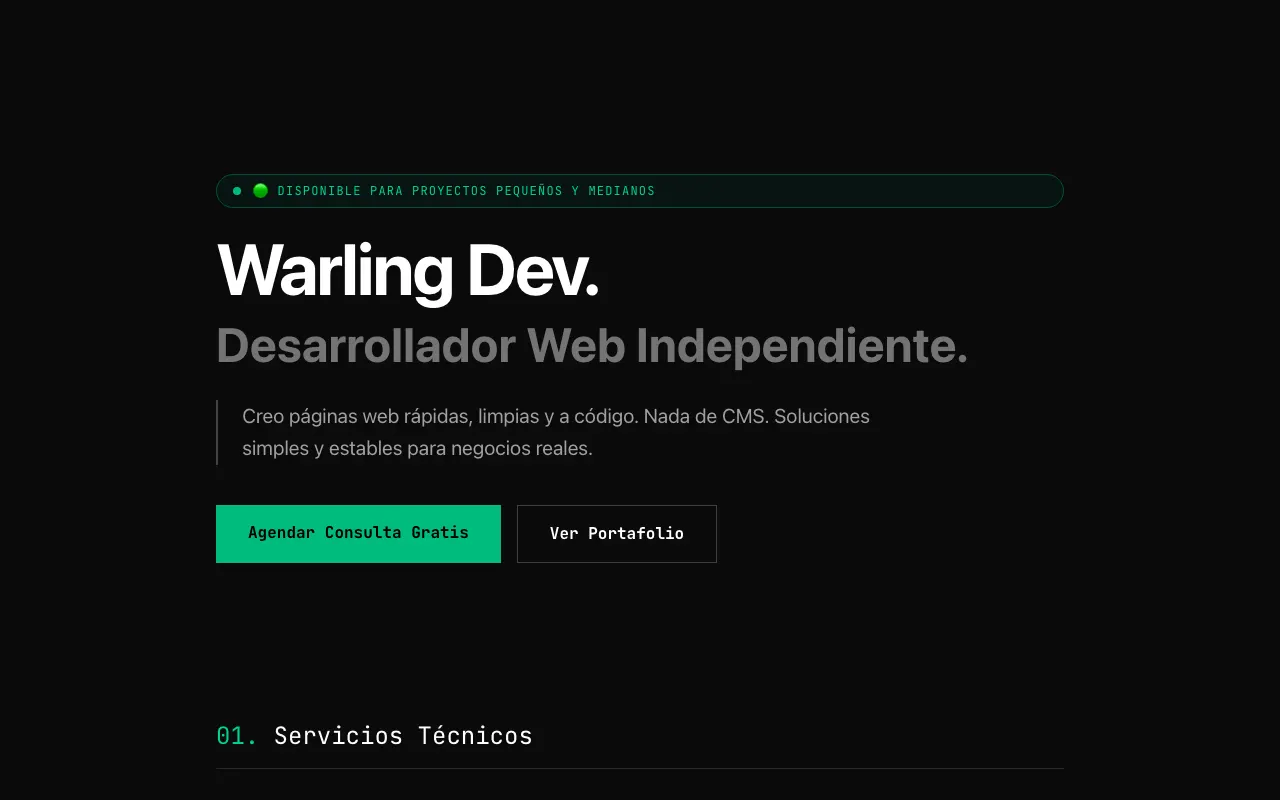
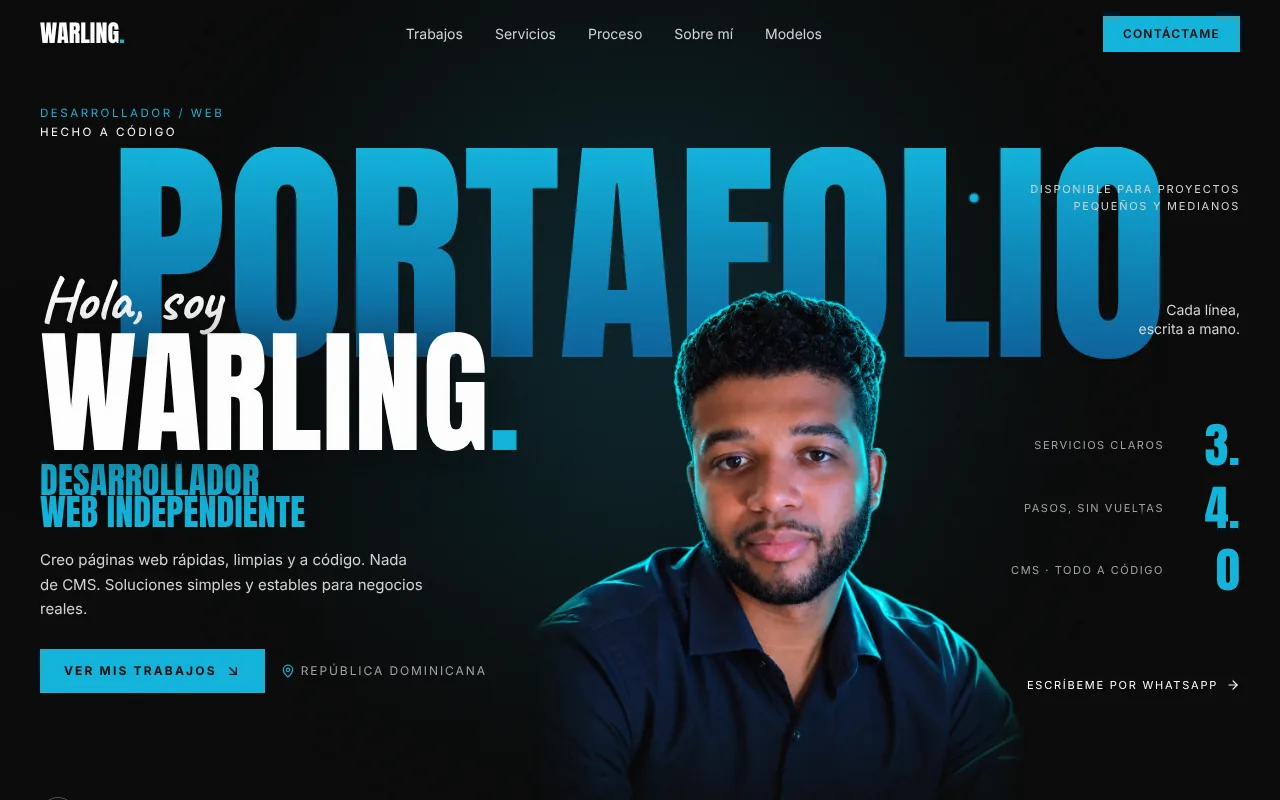
Caso Warling Dev: captura del nuevo warling.top y LinkedIn correcto
- Nueva imagen del caso con el rediseño de www.warling.top.
- La solución menciona el botón directo a WhatsApp (ya no hay agenda).
- LinkedIn del fundador: linkedin.com/in/warlinglopez-dev (entity y /ceo-warling).

Claude-Session: https://claude.ai/code/session_0129eDC2oZNneeVH5rUR3TV3

diff --git a/app/components/ProjectsSection.tsx b/app/components/ProjectsSection.tsx
@@ -174,9 +174,9 @@ export default function ProjectsSection({
       problemEn:
         "No professional presence to communicate technical services and work process to potential clients.",
       solution:
-        "Desarrollamos un sitio profesional con servicios, proceso de trabajo y un CTA claro para agendar consultas.",
+        "Desarrollamos un sitio profesional con servicios, proceso de trabajo y un botón directo a WhatsApp.",
       solutionEn:
-        "We built a professional site with services, work process and a clear CTA to book consultations.",
+        "We built a professional site with services, work process and a direct WhatsApp button.",
       result:
         "Un sitio que carga en menos de 2 segundos y explica servicios y proceso sin que él tenga que repetirlo en cada conversación.",
       resultEn:

diff --git a/app/(standalone)/ceo-warling/page.tsx b/app/(standalone)/ceo-warling/page.tsx
@@ -349,7 +349,7 @@ const t = {
 const LINKS = {
   email: "warlinglopez01@gmail.com",
   github: "https://github.com/warling-lopez",
-  linkedin: "https://www.linkedin.com/in/warling-lopez", // [EDITAR]
+  linkedin: "https://www.linkedin.com/in/warlinglopez-dev/",
   freelance: "https://warling.top",
 };
 

diff --git a/app/lib/content/entity.ts b/app/lib/content/entity.ts
@@ -35,7 +35,7 @@ export const ORG_SAME_AS = [
 
 /** Perfiles del fundador. Estaban solo como texto visible en `/ceo-warling`. */
 export const PERSON_SAME_AS = [
-  "https://www.linkedin.com/in/warling-lopez",
+  "https://www.linkedin.com/in/warlinglopez-dev/",
   "https://github.com/warling-lopez",
 ];
 
